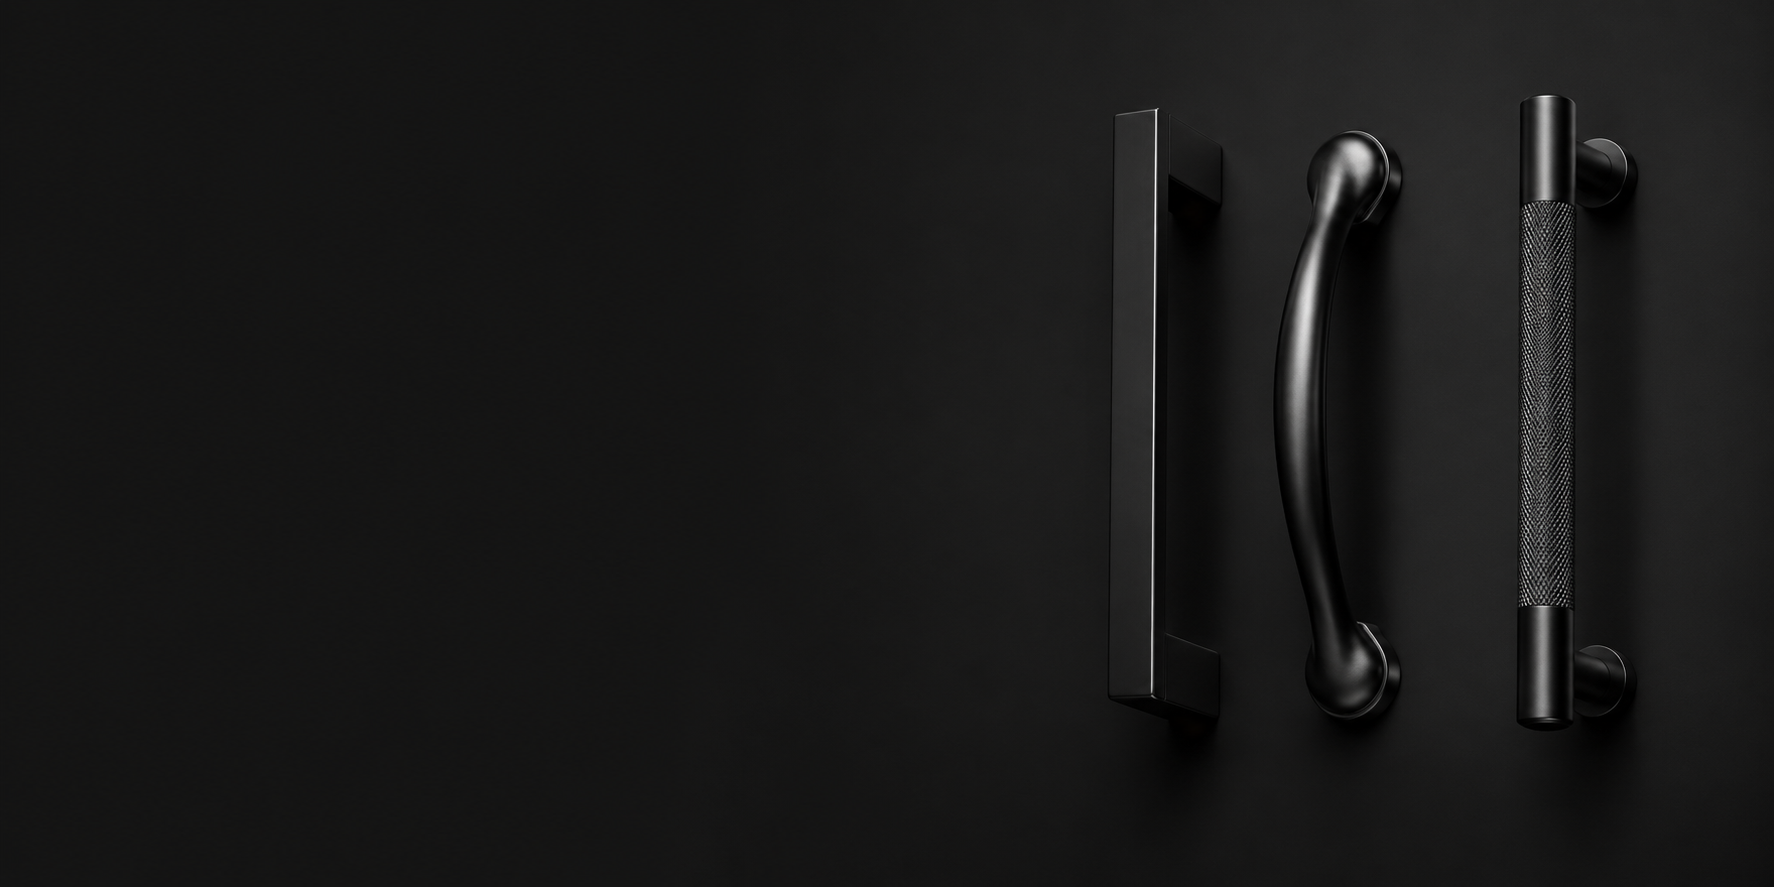
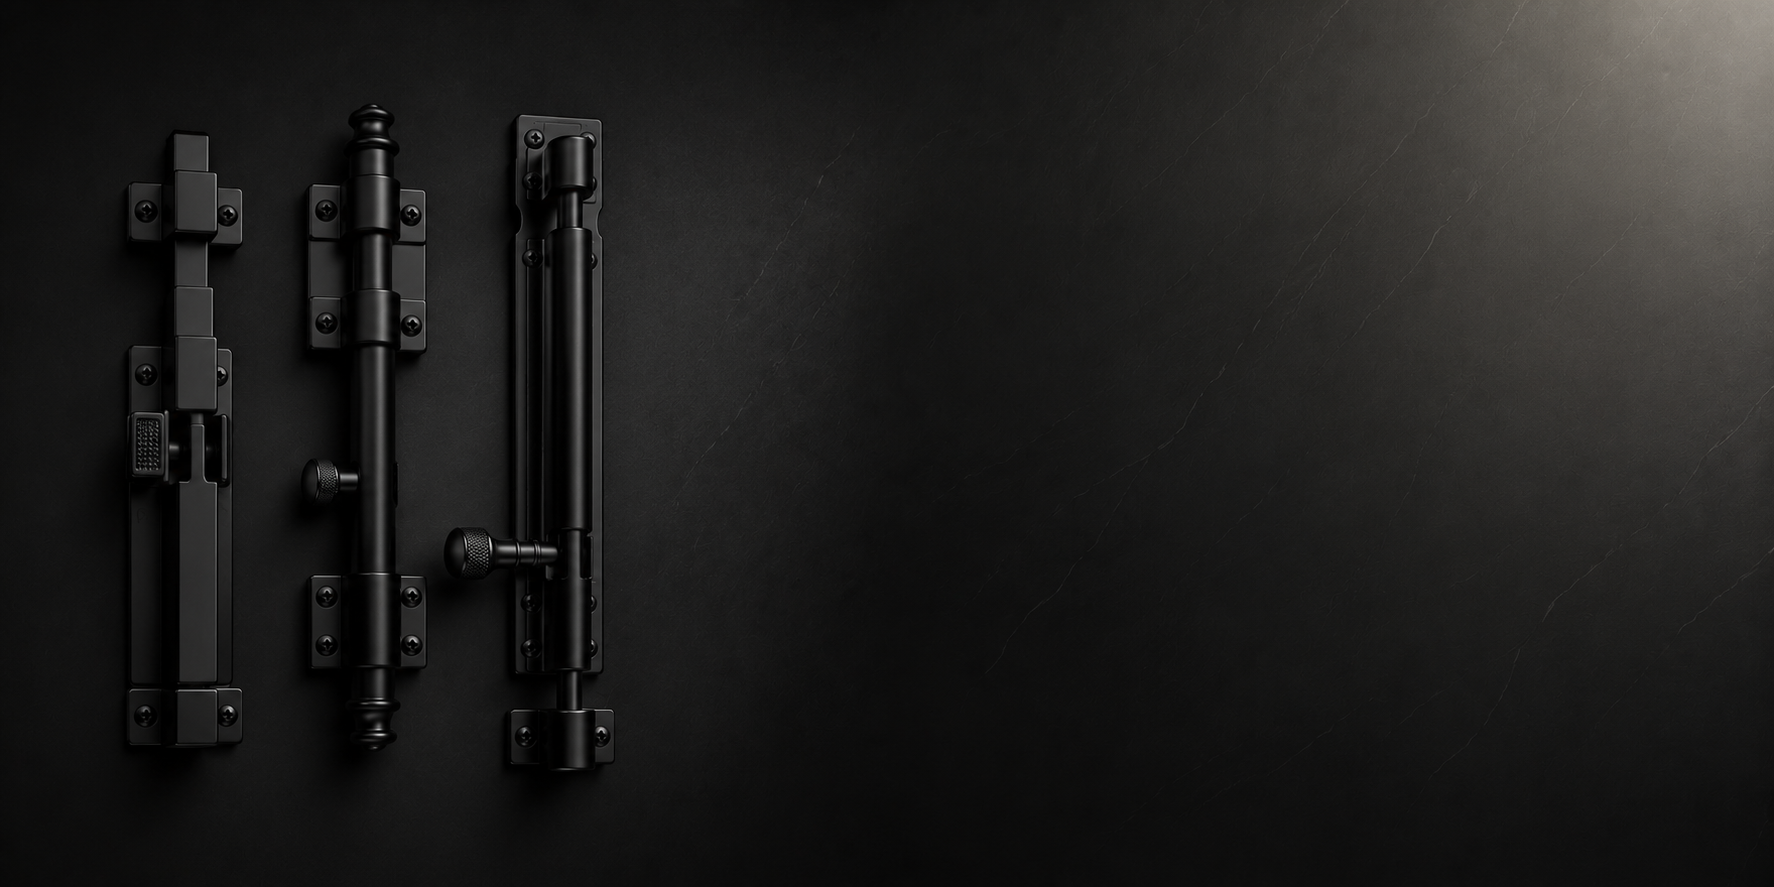
fix codes

Changed region(s): [[0.6511, 0.0, 1.0, 0.8219], [0.062, 0.1218, 0.434, 0.7914], [0.31, 0.7914, 0.341, 0.8523]]

diff --git a/lib/screen/homescreen.dart b/lib/screen/homescreen.dart
@@ -1,5 +1,7 @@
 import 'package:devansh/components/header.dart';
 import 'package:flutter/material.dart';
+import 'dart:async';
+
 class HomePage extends StatefulWidget {
   const HomePage({super.key});
 
@@ -7,8 +9,77 @@ class HomePage extends StatefulWidget {
   State<HomePage> createState() => _HomePageState();
 }
 
+// Bundles everything that changes per-slide together
+class _HeroSlide {
+  final String image;
+  final String headline;
+  final String subtext;
+  final bool alignRight; // false = text on left, true = text on right
+
+  const _HeroSlide({
+    required this.image,
+    required this.headline,
+    required this.subtext,
+    this.alignRight = false,
+  });
+}
+
 class _HomePageState extends State<HomePage> {
   bool _isHovered = false;
+
+  final List<_HeroSlide> _slides = const [
+    _HeroSlide(
+      image: 'assets/port.jpg',
+      headline: "Elevate Every Space with Premium Cabinet Handles",
+      subtext:
+          "Discover modern, durable, and elegant cabinet & door handles "
+          "crafted to complement every interior.",
+      alignRight: false,
+    ),
+    _HeroSlide(
+      image: 'assets/port2.png',
+      headline: "Timeless Design Meets Everyday Durability",
+      subtext:
+          "Designed for modern homes and premium spaces, our aldrops deliver, "
+          "reliable protection with a refined matte-black aesthetic.",
+      alignRight: true, // product sits on the left in this image
+    ),
+  ];
+
+  // Large arbitrary starting page — lets us always scroll forward
+  // (incrementing) without ever needing to jump back to a lower index.
+  static const int _initialPage = 10000;
+
+  late final PageController _pageController;
+  int _currentIndex = 0; // real slide index (wrapped), used for dots/text
+  int _pageCounter = _initialPage; // raw page number, always increasing
+  Timer? _autoScrollTimer;
+
+  @override
+  void initState() {
+    super.initState();
+    _pageController = PageController(initialPage: _initialPage);
+    _startAutoScroll();
+  }
+
+  void _startAutoScroll() {
+    _autoScrollTimer = Timer.periodic(const Duration(seconds: 4), (timer) {
+      if (!_pageController.hasClients) return;
+      _pageCounter++; // always moves forward, never resets to 0
+      _pageController.animateToPage(
+        _pageCounter,
+        duration: const Duration(milliseconds: 700),
+        curve: Curves.easeInOut,
+      );
+    });
+  }
+
+  @override
+  void dispose() {
+    _autoScrollTimer?.cancel();
+    _pageController.dispose();
+    super.dispose();
+  }
 
   @override
   Widget build(BuildContext context) {
@@ -19,130 +90,189 @@ class _HomePageState extends State<HomePage> {
             // Header
             const Header(),
 
-            // Top Image Section with overlay text
+            // Top Hero Carousel Section
             AspectRatio(
               aspectRatio: 16 / 8,
               child: Stack(
                 fit: StackFit.expand,
                 children: [
-                  // Background image
-                  Image.asset(
-                    'assets/port.jpg',
-                    fit: BoxFit.cover,
-                  ),
+                  PageView.builder(
+                    controller: _pageController,
+                    itemCount: null, // unbounded — always scrolls forward
+                    onPageChanged: (index) {
+                      setState(() {
+                        _pageCounter = index;
+                        _currentIndex = index % _slides.length; // wraps 0,1,0,1...
+                      });
+                    },
+                    itemBuilder: (context, index) {
+                      final slide = _slides[index % _slides.length];
+                      final alignment = slide.alignRight
+                          ? Alignment.centerRight
+                          : Alignment.centerLeft;
+                      final crossAlign = slide.alignRight
+                          ? CrossAxisAlignment.end
+                          : CrossAxisAlignment.start;
+                      final textAlign =
+                          slide.alignRight ? TextAlign.right : TextAlign.left;
 
-                 
-                  Container(
-                    decoration: BoxDecoration(
-                      gradient: LinearGradient(
-                        begin: Alignment.centerLeft,
-                        end: Alignment.centerRight,
-                        colors: [
-                          Colors.black.withOpacity(0.55),
-                          Colors.black.withOpacity(0.0),
+                      return Stack(
+                        fit: StackFit.expand,
+                        children: [
+                          // Background image for this slide
+                          Image.asset(
+                            slide.image,
+                            fit: BoxFit.cover,
+                          ),
+
+                          // Gradient overlay — dark side sits behind the
+                          // text, faded out on the side with the product
+                          Container(
+                            decoration: BoxDecoration(
+                              gradient: LinearGradient(
+                                begin: slide.alignRight
+                                    ? Alignment.centerRight
+                                    : Alignment.centerLeft,
+                                end: slide.alignRight
+                                    ? Alignment.centerLeft
+                                    : Alignment.centerRight,
+                                colors: [
+                                  Colors.black.withOpacity(0.55),
+                                  Colors.black.withOpacity(0.0),
+                                ],
+                                stops: const [0.0, 0.7],
+                              ),
+                            ),
+                          ),
+
+                          // Text content — changes per slide, and flips
+                          // side based on slide.alignRight
+                          Positioned(
+                            left: 60,
+                            right: 60,
+                            top: 0,
+                            bottom: 0,
+                            child: Align(
+                              alignment: alignment,
+                              child: ConstrainedBox(
+                                constraints: const BoxConstraints(maxWidth: 520),
+                                child: Column(
+                                  crossAxisAlignment: crossAlign,
+                                  mainAxisSize: MainAxisSize.min,
+                                  children: [
+                                    // AnimatedSwitcher gives a smooth fade
+                                    // when the text itself changes
+                                    AnimatedSwitcher(
+                                      duration: const Duration(milliseconds: 500),
+                                      child: Text(
+                                        slide.headline,
+                                        key: ValueKey<String>(slide.headline),
+                                        textAlign: textAlign,
+                                        style: const TextStyle(
+                                          fontSize: 36,
+                                          fontWeight: FontWeight.bold,
+                                          color: Colors.white,
+                                          height: 1.25,
+                                        ),
+                                      ),
+                                    ),
+                                    const SizedBox(height: 16),
+                                    AnimatedSwitcher(
+                                      duration: const Duration(milliseconds: 500),
+                                      child: Text(
+                                        slide.subtext,
+                                        key: ValueKey<String>(slide.subtext),
+                                        textAlign: textAlign,
+                                        style: TextStyle(
+                                          fontSize: 18,
+                                          color: Colors.white.withOpacity(0.9),
+                                          height: 1.5,
+                                        ),
+                                      ),
+                                    ),
+                                    const SizedBox(height: 35),
+
+                                    // Hover animation wrapper
+                                    MouseRegion(
+                                      onEnter: (_) => setState(() => _isHovered = true),
+                                      onExit: (_) => setState(() => _isHovered = false),
+                                      child: AnimatedContainer(
+                                        duration: const Duration(milliseconds: 200),
+                                        transform: Matrix4.identity()
+                                          ..scale(_isHovered ? 1.05 : 1.0),
+                                        child: ElevatedButton(
+                                          onPressed: () {
+                                            // Add your navigation logic here
+                                          },
+                                          style: ElevatedButton.styleFrom(
+                                            backgroundColor: _isHovered
+                                                ? const Color.fromRGBO(255, 181, 40, 1)
+                                                : const Color.fromRGBO(245, 171, 30, 1),
+                                            foregroundColor: Colors.black,
+                                            padding: const EdgeInsets.symmetric(
+                                              horizontal: 28,
+                                              vertical: 18,
+                                            ),
+                                            shape: RoundedRectangleBorder(
+                                              borderRadius: BorderRadius.circular(6),
+                                            ),
+                                            elevation: _isHovered ? 8 : 2,
+                                          ),
+                                          child: Row(
+                                            mainAxisSize: MainAxisSize.min,
+                                            children: [
+                                              const Text(
+                                                "Explore Collection",
+                                                style: TextStyle(
+                                                  fontSize: 15,
+                                                  fontWeight: FontWeight.w600,
+                                                ),
+                                              ),
+                                              const SizedBox(width: 10),
+                                              AnimatedRotation(
+                                                duration: const Duration(milliseconds: 300),
+                                                turns: _isHovered ? 0.125 : 0.0,
+                                                child: const Icon(
+                                                  Icons.arrow_forward,
+                                                  size: 18,
+                                                  color: Colors.black,
+                                                ),
+                                              ),
+                                            ],
+                                          ),
+                                        ),
+                                      ),
+                                    ),
+                                  ],
+                                ),
+                              ),
+                            ),
+                          ),
                         ],
-                        stops: const [0.0, 0.7],
-                      ),
-                    ),
+                      );
+                    },
                   ),
 
-                  
+                  // Dot indicators
                   Positioned(
-                    left: 60,
-                    right: 60,
-                    top: 0,
-                    bottom: 0,
-                    child: Align(
-                      alignment: Alignment.centerLeft,
-                      child: ConstrainedBox(
-                        constraints: const BoxConstraints(maxWidth: 520),
-                        child: Column(
-                          crossAxisAlignment: CrossAxisAlignment.start,
-                          mainAxisSize: MainAxisSize.min,
-                          children: [
-                            Text(
-                              "Elevate Every Space with Premium Cabinet Handles",
-                              style: TextStyle(
-                                fontSize: 36,
-                                fontWeight: FontWeight.bold,
-                                color: Colors.white,
-                                height: 1.25,
-                              ),
-                            ),
-                            const SizedBox(height: 16),
-                            Text(
-                              "Discover modern, durable, and elegant cabinet "
-                              "& door handles crafted to complement every interior.",
-                              style: TextStyle(
-                                fontSize: 18,
-                                color: Colors.white.withOpacity(0.9),
-                                height: 1.5,
-                              ),
-                            ),
-                        const SizedBox(height: 35),
-                            
-// Hover animation wrapper
-MouseRegion(
-  onEnter: (_) {
-    setState(() {
-      _isHovered = true;
-    });
-  },
-  onExit: (_) {
-    setState(() {
-      _isHovered = false;
-    });
-  },
-  child: AnimatedContainer(
-    duration: const Duration(milliseconds: 200),
-    transform: Matrix4.identity()
-      ..scale(_isHovered ? 1.05 : 1.0),
-    child: ElevatedButton(
-      onPressed: () {
-        // Add your navigation logic here
-      },
-      style: ElevatedButton.styleFrom(
-        backgroundColor: _isHovered 
-            ? const Color.fromRGBO(255, 181, 40, 1)
-            : const Color.fromRGBO(245, 171, 30, 1),
-        foregroundColor: Colors.black,
-        padding: const EdgeInsets.symmetric(
-          horizontal: 28,
-          vertical: 18,
-        ),
-        shape: RoundedRectangleBorder(
-          borderRadius: BorderRadius.circular(6),
-        ),
-        elevation: _isHovered ? 8 : 2,
-      ),
-      child: Row(
-        mainAxisSize: MainAxisSize.min,
-        children: [
-          const Text(
-            "Explore Collection",
-            style: TextStyle(
-              fontSize: 15,
-              fontWeight: FontWeight.w600,
-            ),
-          ),
-          const SizedBox(width: 10),
-          AnimatedRotation(
-            duration: const Duration(milliseconds: 300),
-            turns: _isHovered ? 0.125 : 0.0, // Rotates ~45 degrees clockwise
-            child: const Icon(
-              Icons.arrow_forward, // Changed to arrow pointing right
-              size: 18,
-              color: Colors.black,
-            ),
-          ),
-        ],
-      ),
-    ),
-  ),
-),
-                          ],
-                        ),
-                      ),
+                    bottom: 20,
+                    right: 30,
+                    child: Row(
+                      children: List.generate(_slides.length, (i) {
+                        final isActive = i == _currentIndex;
+                        return AnimatedContainer(
+                          duration: const Duration(milliseconds: 300),
+                          margin: const EdgeInsets.symmetric(horizontal: 4),
+                          width: isActive ? 20 : 8,
+                          height: 8,
+                          decoration: BoxDecoration(
+                            color: isActive
+                                ? const Color.fromRGBO(245, 171, 30, 1)
+                                : Colors.white.withOpacity(0.5),
+                            borderRadius: BorderRadius.circular(4),
+                          ),
+                        );
+                      }),
                     ),
                   ),
                 ],
@@ -150,7 +280,6 @@ MouseRegion(
             ),
 
             // About Section
-            
 
             // Rest of homepage content will go here
           ],